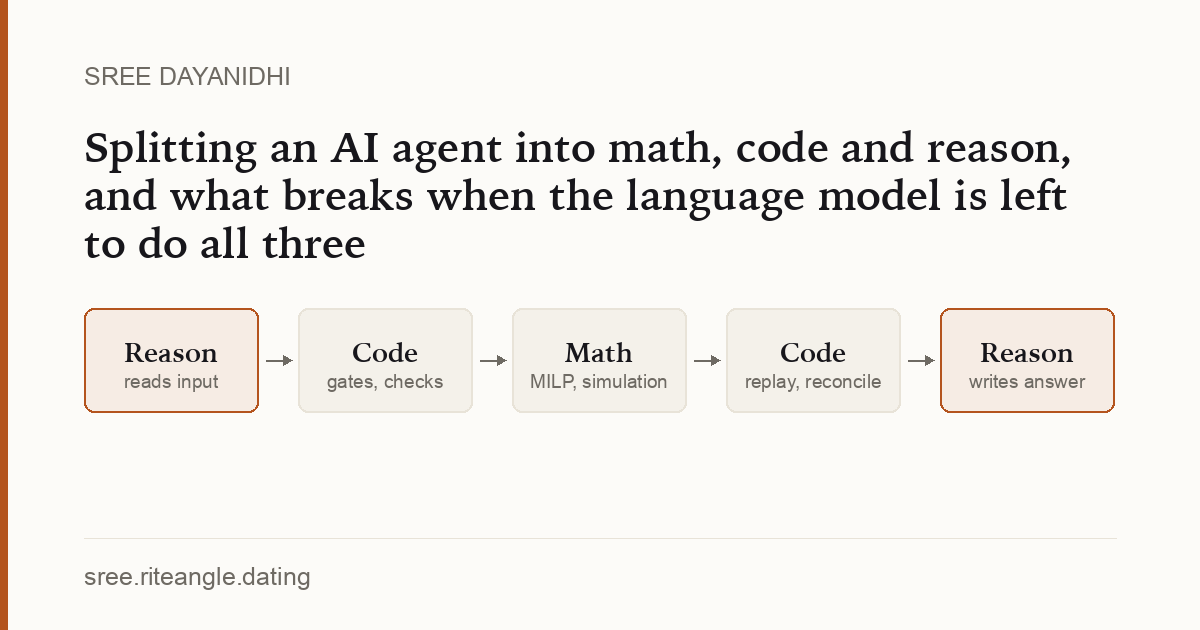
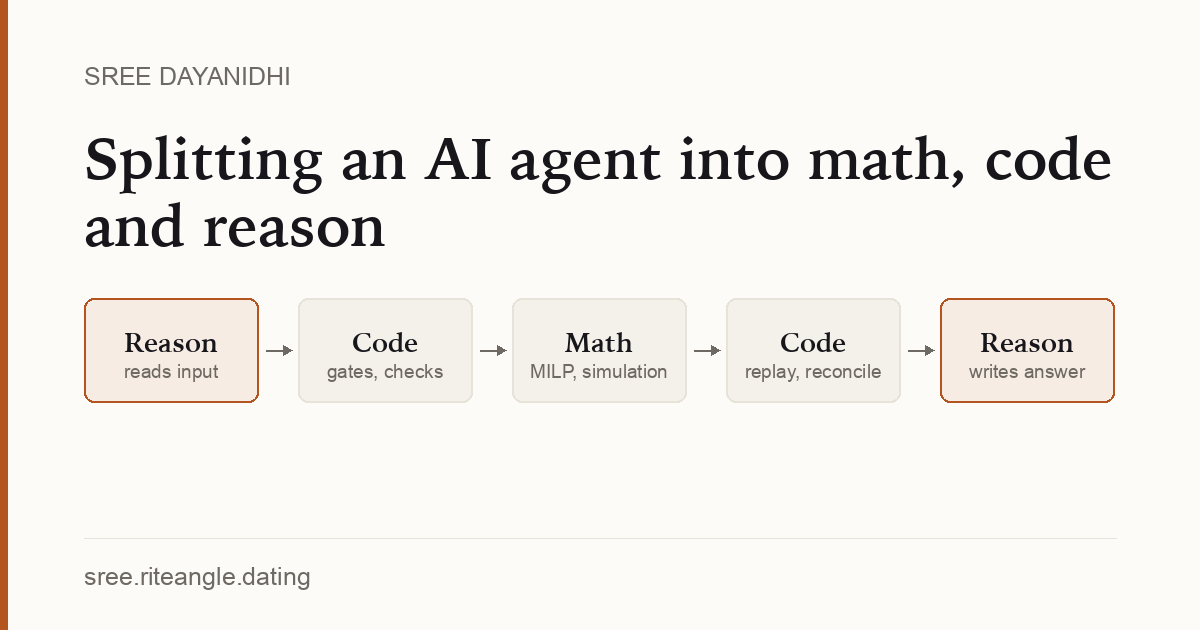
Add the math-code-reason post's diagrams and shorten its title
The four diagrams sat outside the blog writer's allowlist when the post first
landed; portfolio-commons 0842a8c widened it to static/blog/**. Committed here
by explicit path, because a blind propose would also adopt another session's
untracked diagrams. Title shortened at the owner's request so it argues for the
split alone; share card regenerated to match.

diff --git a/src/lib/blog/posts/math-code-reason-architecture.md b/src/lib/blog/posts/math-code-reason-architecture.md
@@ -1,5 +1,5 @@
 ---
-title: Splitting an AI agent into math, code and reason, and what breaks when the language model is left to do all three
+title: Splitting an AI agent into math, code and reason
 date: 2026-10-11
 summary: Ask one language model to score every possible pair in a dating pool, enforce a privacy rule and explain the result, and it will do all three, a little differently each night, with no way to tell which part went wrong. Across thirteen systems I have built, the ones that hold up split the work three ways. Solvers handle anything with a best answer or a probability. Plain code handles anything that must hold every time. The model reads and writes what no rule can describe. The price is translation, because math and code need the problem in numbers and fields, so the riskiest moment moves to the seam where the model hands them over.
 tags: [agentic-architecture, decision-systems, agent-architecture]
